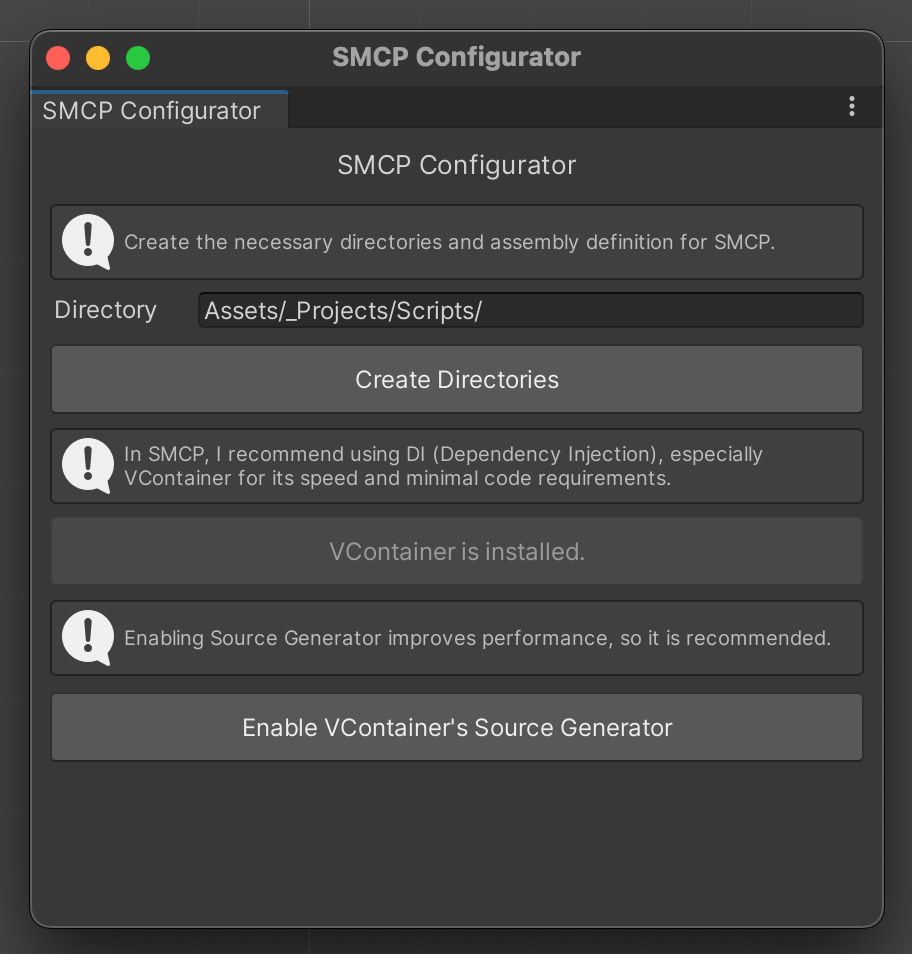
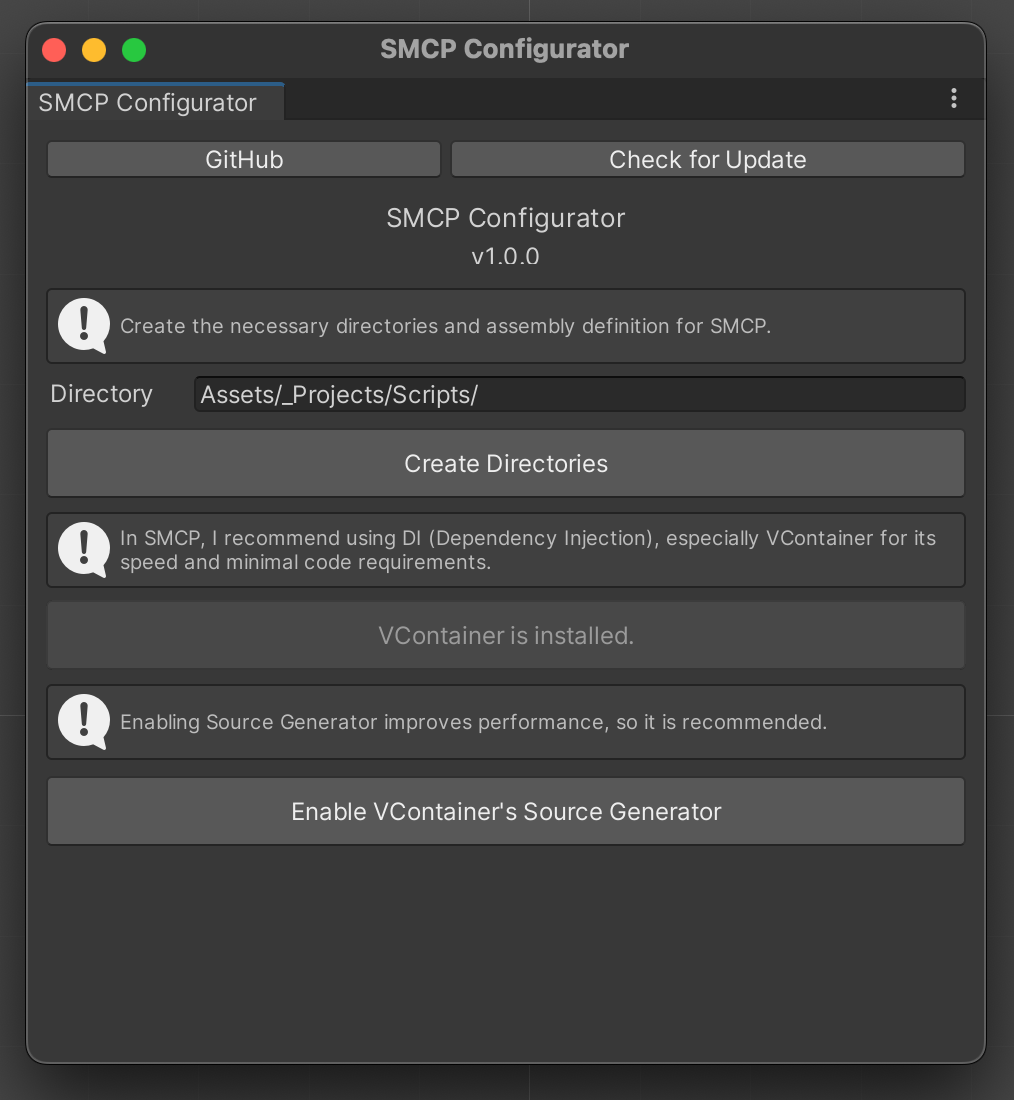
feat: Add version check and update functionality

Changed region(s): [[0.0307, 0.0, 0.9825, 0.9727], [0.3684, 0.5472, 0.6447, 0.608]]

diff --git a/Packages/SMCPConfigurator/Editor/SMCPConfiguratorWindow.cs b/Packages/SMCPConfigurator/Editor/SMCPConfiguratorWindow.cs
@@ -2,6 +2,7 @@
 using System;
 using System.IO;
 using System.Linq;
+using System.Threading;
 using UnityEngine;
 using UnityEditor;
 
@@ -17,9 +18,13 @@ namespace Packages.SMCPConfigurator.Editor
     public class SMCPConfiguratorWindow : EditorWindow
     {
         string _rootPath = "Assets/_Projects/Scripts/";
+        const string _packageUrl = "https://raw.githubusercontent.com/IShix-g/SMCP-Configurator/main/Packages/SMCPConfigurator/package.json";
         const string _packagePath = "Packages/com.ishix.smcpconfigurator/";
+        const string _gitUrl = "https://github.com/ishix/smcpconfigurator";
 
         string _currentVersion;
+        bool _isStartCheckVersion;
+        CancellationTokenSource _tokenSource;
         
         [MenuItem("Window/SMCP Configurator")]
         static void ShowWindow()
@@ -30,9 +35,12 @@ namespace Packages.SMCPConfigurator.Editor
             window.Show();
         }
 
-        void OnEnable()
+        void OnEnable() => _currentVersion = "v" + CheckVersion.GetCurrent(_packagePath);
+
+        void OnDestroy()
         {
-            _currentVersion = "v" + CheckVersion.GetCurrent(_packagePath);
+            _tokenSource?.SafeCancelAndDispose();
+            _isStartCheckVersion = false;
         }
         
         void OnGUI()
@@ -44,11 +52,25 @@ namespace Packages.SMCPConfigurator.Editor
                 };
                 GUILayout.BeginVertical(style);
             }
+            
+            GUILayout.BeginHorizontal();
+            if (GUILayout.Button("GitHub"))
+            {
+                Application.OpenURL(_gitUrl);
+            }
+            EditorGUI.BeginDisabledGroup(_isStartCheckVersion);
+            if (GUILayout.Button("Check for Update"))
+            {
+                StartCheckUpdate();
+            }
+            EditorGUI.EndDisabledGroup();
+            GUILayout.EndHorizontal();
+            
             {
                 var style = new GUIStyle(GUI.skin.label)
                 {
                     fontSize = 13,
-                    padding = new RectOffset(0, 0, 0, 5),
+                    padding = new RectOffset(0, 0, 10, 5),
                     alignment = TextAnchor.MiddleCenter,
                     wordWrap = true
                 };
@@ -106,6 +128,43 @@ namespace Packages.SMCPConfigurator.Editor
 #endif
 
             GUILayout.EndVertical();
+        }
+
+        void StartCheckUpdate()
+        {
+            _isStartCheckVersion = true;
+
+            _tokenSource = new CancellationTokenSource();
+            CheckVersion.GetVersionOnServerAsync(_packageUrl)
+                .SafeContinueWith(task =>
+                {
+                    var version = task.Result;
+                        
+                    if (!string.IsNullOrEmpty(version))
+                    {
+                        var comparisonResult = default(int);
+                        var current = new Version(_currentVersion.TrimStart('v').Trim());
+                        var server = new Version(version.Trim());
+                        comparisonResult = current.CompareTo(server);
+                        version = "v" + version;
+                            
+                        if (comparisonResult >= 0)
+                        {
+                            EditorUtility.DisplayDialog("Check for Update",
+                                "Local: " + _currentVersion + "  GitHub: " + version + "\nThe current version is the latest release.",
+                                "Close");
+                        }
+                        else
+                        {
+                            EditorUtility.DisplayDialog(_currentVersion + " -> " + version,
+                                "There is a newer version (" + version + "), please update from Package Manager.",
+                                "Close");
+                        }
+                    }
+                    _isStartCheckVersion = false;
+                    _tokenSource.Dispose();
+                    _tokenSource = default;
+                }, _tokenSource.Token);
         }
         
         static void GenerateAssemblyDefinitions(string rootDirectory)

diff --git a/Packages/SMCPConfigurator/Editor/TaskExtensions.cs b/Packages/SMCPConfigurator/Editor/TaskExtensions.cs
@@ -1,0 +1,85 @@
+
+using System;
+using System.Threading;
+using System.Threading.Tasks;
+
+namespace Packages.SMCPConfigurator.Editor
+{
+    public static class TaskExtensions
+    {
+        public static void SafeContinueWith<T>(
+            this Task<T> @this,
+            Action<Task<T>> continuationAction,
+            CancellationToken cancellationToken = default)
+        {
+            var context = SynchronizationContext.Current;
+            @this.ContinueWith(t =>
+            {
+                if (cancellationToken.IsCancellationRequested)
+                {
+                    return;
+                }
+
+                if (SynchronizationContext.Current == context)
+                {
+                    continuationAction(t);
+                }
+                else
+                {
+                    context.Post(_ => continuationAction(t), null);
+                }
+            },
+            cancellationToken,
+            TaskContinuationOptions.ExecuteSynchronously,
+            TaskScheduler.Current);
+        }
+        
+        public static void SafeContinueWith(
+            this Task @this,
+            Action<Task> continuationAction,
+            CancellationToken cancellationToken = default)
+        {
+            var context = SynchronizationContext.Current;
+            @this.ContinueWith(t =>
+            {
+                if (cancellationToken.IsCancellationRequested)
+                {
+                    return;
+                }
+
+                if (SynchronizationContext.Current == context)
+                {
+                    continuationAction(t);
+                }
+                else
+                {
+                    context.Post(_ => continuationAction(t), null);
+                }
+            },
+            cancellationToken,
+            TaskContinuationOptions.ExecuteSynchronously,
+            TaskScheduler.Current);
+        }
+        
+        public static void SafeCancelAndDispose(this CancellationTokenSource @this)
+        {
+            if (@this == default)
+            {
+                return;
+            }
+            
+            try
+            {
+                if (!@this.IsCancellationRequested)
+                {
+                    @this.Cancel();
+                }
+                @this.Dispose();
+            }
+            catch
+            {
+                // Ignore
+            }
+        }
+    }
+}

diff --git a/Packages/SMCPConfigurator/Editor/CheckVersion.cs b/Packages/SMCPConfigurator/Editor/CheckVersion.cs
@@ -1,12 +1,37 @@
 
 using System;
 using System.IO;
+using System.Net.Http;
+using System.Threading.Tasks;
 using UnityEngine;
 
 namespace Packages.SMCPConfigurator.Editor
 {
     sealed class CheckVersion
     {
+        internal static async Task<string> GetVersionOnServerAsync(string gitUrl)
+        {
+            try
+            {
+                using var client = new HttpClient();
+                var response = await client.GetAsync(gitUrl);
+
+                if (response.IsSuccessStatusCode)
+                {
+                    var json = await response.Content.ReadAsStringAsync();
+                    var version = GetVersionByJson(json);
+                    return version;
+                }
+                Debug.LogError("GetVersion error: " + response.ReasonPhrase);
+                return string.Empty;
+            }
+            catch (HttpRequestException ex)
+            {
+                Debug.LogError("GetVersion exception: " + ex.Message);
+                return string.Empty;
+            }
+        }
+        
         internal static string GetCurrent(string packagePath)
         {
             var path = Path.Combine(packagePath, "package.json");
